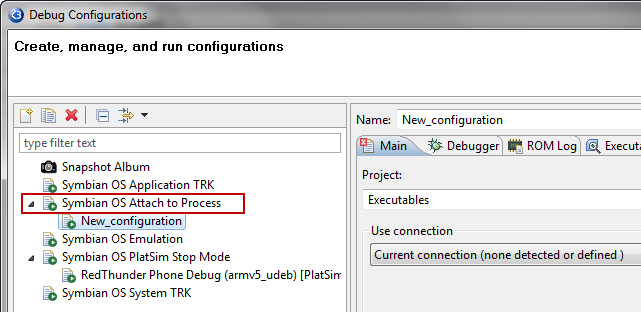
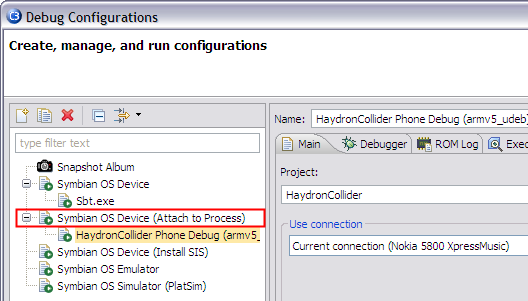
BUG 12110 - more TRK references removed in text and images

diff --git a/core/com.nokia.carbide.cpp.doc.user/html/tasks/debugger/run_mode_debug_07.htm b/core/com.nokia.carbide.cpp.doc.user/html/tasks/debugger/run_mode_debug_07.htm
@@ -18,58 +18,29 @@
   <li><a href="run_mode_debug_04.htm">Setup a virtual drive for Techview and Cust Kits</a></li>
   <li><a href="run_mode_debug_05.htm">Set the default kit in Devices.xml </a></li>
   <li><a href="run_mode_debug_06.htm">Install the SISX file on the target device</a></li>
-  <li><b>Configure TRK connection on the device</b></li>
+  <li><b>Configure CODA connection on the device</b></li>
   <li><a href="run_mode_debug_08.htm">Create a launch configuration</a></li>
 </ol>
 <div class="step">
 <h4><a name="runConfig" id="runConfig"> </a>Configure CODA Connection on the Device</h4>
-<h5>Connecting with Bluetooth</h5>
-  <ol>
-    <li>On the device make sure the Bluetooth port is turned on</li>
-    <li>On the phone launch CODA.</li>
-    <p>The location of CODA (Carbide On-device Debug Agent) will vary based on the phone. On some phones it will be in the Installed folder, on others it may be in the My Own folder.</p>
-    <li>CODA will ask which host you want to pair with. When requested, select your computer from the available Bluetooth devices list.</li>
-    <li>After the host and phone are paired, CODA should be connected. Verify that CODA is running.</li>
-    <li>On the PC:
-      <ol type="a">
-        <li>Right click on the Bluetooth icon in the System tray and select Advanced Configuration</li>
-        <li>Click the Local Services tab</li>
-        <li>Write down the Bluetooth COM Port number from the Local Services tab (Figure 1).</li>
-        <p>The Port number will be used when configuring the CODA launch configuration. The Bluetooth COM Port number in the Local Services tab should match the COM port used in the Connections tab of the CODA launch configuration.</p>
-        <li>Click OK to close the Bluetooth Configuration window</li>
-        <p align="center"><img src="images/Bluetooth_localservices.png" width="460" height="437" /></p>
-        <p class="figure">Figure 1. Bluetooth Configuration windows Local Services panel</p>
-      </ol>
-    </li>
-  </ol>
-<h5>Connecting with PC Suite</h5>
+<h5>Connecting with Nokia Ovi/PC Suite</h5>
 
   <ol>
+    <li>Verify Nokia Ovi/PC Suite are installed on the PC (drivers are required by Carbide)</li>
     <li>Connect the USB cable to the PC and then to the target device</li>
-    <li>On the device select PC suite from the USB mode list</li>
-    <li>Launch the CODA agent</li>
-    <p>The location of the CODA on-device debug agent will vary based on the phone. On some phones it will be in the Installed folder, on others it may be in My Own folder.</p>
-    <li>Halt the Bluetooth device search by pressing Cancel</li>
+    <li>On the device select PC Suite from the USB mode list</li>
+    <li>On the device launch the CODA agent</li>
+    <p>The location of the CODA on-device debug agent will vary based on the phone. On some phones it will be in the <span class="code">Installed</span>, <span class="code">Applications</span>, or <span class="code">My Own</span> folder.</p>
     <li>Click Options &gt; Settings &gt; Connection</li>
-    <li>Change Connection type to USB and set connection options (Figure 2) </li>
+    <li>Change Connection type to USB and set connection options</li>
+       <p align="left"><img src="../trk/images/coda_options.png" alt="CODA options" width="180" height="165"></p>
     <li>Select Back and start the CODA software again and you should be connected</li>
-    <p align="center"><img src="images/TRK_USB_settings.png" width="211" height="250" /></p>
-    <p class="figure">Figure 2. USB Connection Settings</p>
-    <li>On the PC</li>
-        <ol type="a">
-          <li>Open Windows Computer Management by right-clicking My Computer and select Manage from the context menu to open the Computer Management window.</li>
-            <li>Select System Tools &gt; Device Manager &gt; Ports (COM &amp; LPT) to display all active ports</li>
-            <li>Locate the S60 Phone USB (COMxx) item in the list</li>
-
-        <p align="center"><img src="images/comp_manage_ports.png" width="507" height="546" />        </p>
-    <p class="figure">Figure 3. Device Manager - Ports</p>
-
-      <li>Write down the port ID and Communication Port Properties.</li>
-      <p>The COM Port number in the Device Manager window should match the COM port used in the Connections tab of the CODA launch configuration.</p>
-      <li>Close the Device Manager window </li>
+    <li>On the PC verify connection in Remote Connections view<br />
+    	<p><img src="../../reference/images/view_remote_connections.png" alt="Remote Connections view" width="679" height="166"></p>
+    </li>
     </ol>
-  </ol>
-  </div>
+  <p>With the remote device connected you are ready to start debugging.</p>
+</div>
 <div id="footer">Copyright &copy; 2010 Nokia Corporation and/or its subsidiary(-ies). All rights reserved. <br>License: <a href="http://www.eclipse.org/legal/epl-v10.html">http://www.eclipse.org/legal/epl-v10.html</a></div>
 
 </body>

diff --git a/core/com.nokia.carbide.cpp.doc.user/html/tasks/trk/trk_start_sisx.htm b/core/com.nokia.carbide.cpp.doc.user/html/tasks/trk/trk_start_sisx.htm
@@ -4,28 +4,29 @@
 <meta http-equiv="Content-Type" content="text/html; charset=ISO-8859-1" />
 <meta http-equiv="Content-Style-Type" content="text/css" />
 <meta name="LASTUPDATED" content="06/17/05 11:09:43" />
-<title>Starting the On-Device CODA Software</title>
+<title>Starting the CODA Software</title>
 <link rel="StyleSheet" href="../../../book.css" type="text/css"/>
 </head>
 <body >
-<h2>Starting the On-Device CODA Software</h2>
+<h2>Starting the CODA Software</h2>
 <div class="step">
-  <p>The location of the CODA software varies based on the phone. On some phones  it will be the Installed folder, on others it may be in My Own folder. Refer to the documentation that came with the phone to learn where installed programs are stored.</p>
+  <p>The location of the CODA (Carbide On-device Debug Agent) software varies based on the phone. On some phones  it will be the <span class="code">Installed</span>, <span class="code">Applications</span>, or the <span class="code">My Own</span> folder. Refer to the documentation that came with the phone to learn where installed programs are stored.</p>
   <ol>
+    <li>Make sure CODA (Carbide On-device Debug Agent) is present on the device<br />
+        <p>To install CODA see <a href="../../reference/trk/wnd_new_conn_install_tab.htm">Install Remote Agents</a> tab in the <b>New Connections</b> dialog.</p>
+    </li>
     <li>Launch the CODA program on the device</li>
-    <li>When requested, select your computer from the available Bluetooth devices list</li>
-    <p align="center"><img src="images/trk_bt_device_search_dialog.png" width="211" height="250" /></p>
-    <p class="figure">Figure 1. Example device list on a S60 3rd Edition or UIQ device</p>
-    <li>Verify the Bluetooth connection is working
-(Figure 2)
-      <p align="center"><img src="images/trk_bt_connected.png" width="211" height="250" /></p>
-      <p class="figure">Figure 2. COM port verification in TRK on a device</p>
+    <li>Verify the connection is working on the device and within Carbide
+        <p align="center"><img src="images/coda_running.png" alt="CODA status" width="216" height="384">&nbsp;&nbsp;<img src="../../reference/images/view_remote_connections.png" alt="Remote Connections view" width="679" height="166"></p>
+      <p class="figure">Figure 1. Connection verified on device and Carbide</p>
     </li>
     <li>If CODA reports &quot;Not Connected&quot;
         <ol type="a">
         <li>Click Options &gt; Settings soft key </li>
-        <li>If Connection is not set to BlueTooth, choose BlueTooth </li>
-        <li>Click Ok soft key</li>
+        <li>If Connection is not set to USB, choose USB<br />
+        	<p><img src="images/coda_options.png" alt="CODA options" width="180" height="165"></p>
+        </li>
+        <li>Click Back soft key</li>
         <li>Restart CODA  </li>
       </ol>
     </li>
@@ -38,10 +39,6 @@
   <h5>Related references</h5>
   <ul>
     <li><a href="../../projects/launch/page_main.htm">Debug Window (On-device Debugging) Overview</a></li>
-  </ul>
-  <h5>Related tasks</h5>
-  <ul>
-    <li><a href="trk_install_bluetooth.htm">Installing On-device Debug Agents using Bluetooth </a></li>
   </ul>
 <div id="footer">Copyright &copy; 2010 Nokia Corporation and/or its subsidiary(-ies). All rights reserved. <br>License: <a href="http://www.eclipse.org/legal/epl-v10.html">http://www.eclipse.org/legal/epl-v10.html</a></div>
 

diff --git a/core/com.nokia.carbide.cpp.doc.user/html/tasks/trk/trk_preconditions.htm b/core/com.nokia.carbide.cpp.doc.user/html/tasks/trk/trk_preconditions.htm
@@ -9,23 +9,23 @@
 </head>
 <body >
 <h2>Preconditions to On-Device Debugging</h2>
-<p>Before you can use on-device debugging to debug 3rd and 5th edition devices, the following preconditions must be met.</p>
+<p>Before you can use on-device debugging to debug 5th edition devices, the following preconditions must be met.</p>
 <div class="step">
   <h4>Verifying On-device Debugging Preconditions </h4>
   <ol>
     <li>Verify that your system has the following:
       <ul>
         <li>A current Symbian OS SDK is installed</li>
-        <li>Perl installed</li>
+        <li>Perl is installed</li>
         <li>RVCT or GCCE compiler</li>
-        <li>USB or Bluetooth support on your PC </li>
+        <li>USB  support on your PC </li>
         <li>Nokia Ovi/PC Suite (or equivilent software) for connecting and installing applications to the device </li>
       </ul>
     </li>
     <li>Download and install the current CODA SISX file using the <a href="../../reference/trk/wnd_on_device_setup.htm">On-Device Connections</a> dialog</li>
     <p>If CODA is not install, use the <a href="../../projects/launch/wiz_new_launch_config.htm">On-Device Connections &gt; New Connection Wizard &gt; Install remote agents</a> pane.</p>
     <li>Specify the communication method with the on-target device during the debug session</li>
-  <p>Start CODA on the device. During startup of CODA on the device you must specify the communication method the on-device agent uses to debug the device. Currently, those methods include <a href="trk_connection_bluetooth.htm">Bluetooth</a> and <a href="trk_connection_usb.htm">USB</a> or a null serial cable. For Bluetooth, you must pair the device with the PC and a valid serial port assigned. For USB, A USB cable must connect the PC to the device and a valid serial port assigned. Use <a href="../../reference/trk/wnd_on_device_setup.htm">On-Device Connections</a> dialog to make the identification and connection setup quick and easy. </p>
+  <p>Start CODA on the device. During startup of CODA on the device you must specify the communication method the on-device agent uses to debug the device. Currently, those methods include <a href="trk_connection_usb.htm">USB</a> or a null serial cable. For USB, A USB cable must connect the PC to the device and a valid serial port assigned. Use <a href="../../reference/trk/wnd_on_device_setup.htm">On-Device Connections</a> dialog to make the identification and connection setup quick and easy. </p>
   </ol>
 </div>
 <h5>Related concepts</h5>
@@ -36,12 +36,10 @@
 </ul>
 <h5>Related reference</h5>
 <ul>
-  <li><a href="trk_start_sisx.htm">Starting the On-Device TRK Debug Agent</a></li>
+  <li><a href="trk_start_sisx.htm">Starting the On-Device CODA Software</a></li>
 </ul>
 <h5>Related tasks</h5>
-<ul>
-  <li><a href="trk_install_bluetooth.htm">Installing On-device Debug Agents using Bluetooth</a></li>
-  <li><a href="trk_install_usb.htm">Installing On-device Debug Agents using USB </a></li>
+<ul><li><a href="trk_install_usb.htm">Installing On-device Debug Agents using USB </a></li>
 </ul>
 <div id="footer">Copyright &copy; 2010 Nokia Corporation and/or its subsidiary(-ies). All rights reserved. <br>License: <a href="http://www.eclipse.org/legal/epl-v10.html">http://www.eclipse.org/legal/epl-v10.html</a></div>
 

diff --git a/core/com.nokia.carbide.cpp.doc.user/html/tasks/debugger/run_mode_debug_08.htm b/core/com.nokia.carbide.cpp.doc.user/html/tasks/debugger/run_mode_debug_08.htm
@@ -18,7 +18,7 @@
   <li><a href="run_mode_debug_04.htm">Setup a virtual drive for Techview and Cust Kits</a></li>
   <li><a href="run_mode_debug_05.htm">Set the default kit in Devices.xml </a></li>
   <li><a href="run_mode_debug_06.htm">Install the SISX file on the target device</a></li>
-  <li><a href="run_mode_debug_07.htm">Configure TRK connection on the device</a></li>
+  <li><a href="run_mode_debug_07.htm">Configure CODA connection on the device</a></li>
   <li><b>Create a launch configuration</b></li>
 </ol>
 <div class="step">
@@ -30,8 +30,8 @@
     <li>The <a href="../../projects/launch/wiz_new_launch_config.htm">New Launch Configuration Wizard</a>  appears</li>
     <p>To communicate between the Carbide.c++ debugger and the on-device debug agent or protocol interface you must define a debug launch configuration. The Debug window is where you define the type of debug launch configuration to use when debugging programs on the target device (Figure 4).</p>
     <p><img src="images/Debug_Config_main.png" width="986" height="640" /></p>
-    <p class="figure">Figure 4. Debug Window</p>
-    <li>Select either a Symbian OS Device (Install SIS) or Symbian OS Device configuration type for on-device debugging and click New</li>
+    <p class="figure">Figure 4. Debug window</p>
+    <li>Select either a Symbian Device (Install SIS) or Symbian Device configuration type for on-device debugging and click New</li>
     <p>For debug launch configurations using the CODA debug agent, the following pages require review and possible option settings:</p>
     <ul>
       <li><b>Main</b> - defines the project to be launched on the target device</li>

diff --git a/core/com.nokia.carbide.cpp.doc.user/html/tasks/processes/attach_to_process.htm b/core/com.nokia.carbide.cpp.doc.user/html/tasks/processes/attach_to_process.htm
@@ -25,8 +25,8 @@
           <p class="note"><b>NOTE</b> The executable must include symbolics in order for debugging to work.</p>
       </li>
       <li>Click Debug (<img src="../../projects/images/icon_debug.png" alt="Debug icon" width="17" height="17" align="absmiddle">) to launch the <a href="../../projects/launch/wiz_new_launch_config.htm">New Configuration Launch Wizard</a>.</li>
-      <p>Select the Symbian OS Attach to Process launch configuration option and fill in the requested information.</p>
-      <p align="center"><img src="../projects/images/attach_to_process_launch_config.png" alt="Attach to Process launch config" width="641" height="312"></p>
+      <p>Select the Symbian Device (Attach to Process) launch configuration option and fill in the requested information.</p>
+      <p align="center"><img src="../projects/images/attach_to_process_launch_config.png" alt="Attach to Process launch config" width="528" height="301"></p>
       <p class="figure">Figure 2 -<b> Attach to Process</b> launch configuration</p>
       <li>Click Debug.</li>
       <p>The <b>Attach to Process </b>dialog appears. Click a column title to sort the processes in ascending or descending order to help you locate a specific process or use the filter text box to show specific processes. </p>

diff --git a/core/com.nokia.carbide.cpp.doc.user/html/tasks/trk/trk_troubleshooting.htm b/core/com.nokia.carbide.cpp.doc.user/html/tasks/trk/trk_troubleshooting.htm
@@ -89,8 +89,8 @@
 <blockquote>
   <p>Normally, you can determine the COM port ID using the Device Manager if TRK is already connected via USB.
   </p>
-  <p>To check, choose Start &gt; Settings &gt; Control panel &gt; System &gt; Hardware &gt; Device Manager. In the Device Manager, choose &quot;Ports&quot; to view the active ports (Figure 1).</p>
-  <p align="center"><img src="images/trk_device_manager.gif" width="323" height="210" /></p>
+  <p>To check, choose <b>Start &gt; Settings &gt; Control panel &gt; System &gt; Hardware &gt; Device Manager</b>. In the Device Manager, choose &quot;Ports&quot; to view the active ports (Figure 1).</p>
+  <p align="center"><img src="images/trk_device_manager.gif" width="387" height="258" /></p>
   <p class="figure">Figure 1. Ports displayed in Ports section of Device Manager.</p>
   <p>In some situations all USB virtual COM ports are installed under &quot;Modems&quot; in the Device Manager. In the Device Manager dialog, choose &quot;Modems&quot; and see if there are two COM ports listed. One of them will work for debugging. Most of the time, the higher port number works for debugging with TRK.</p>
 </blockquote>

diff --git a/core/com.nokia.carbide.cpp.doc.user/html/reference/trk/view_remote_connection.htm b/core/com.nokia.carbide.cpp.doc.user/html/reference/trk/view_remote_connection.htm
@@ -32,7 +32,7 @@
   <li>Status - current connection status, i.e. Available, Not Accessible, Ready, etc.</li>
   <li>Description - provides information on the current connection test status.</li>
 </ul>
-<p align="center"><img src="../images/view_remote_connections.png" width="588" height="177"></p>
+<p align="center"><img src="../images/view_remote_connections.png" width="679" height="166"></p>
 <p class="figure">Figure 1 - Remote Connections view</p>
 <p>When the view is closed or another perspective opened, a small display  appears in the trim area in the lower-right corner of the workspace showing the current active remote connection. Click the connection name to  open the drop-down menu where you can open the Remote Connections view or switch between  connections.</p>
 <p align="center"><img src="../images/trim_remote_conns.png" width="212" height="44"></p>

diff --git a/core/com.nokia.carbide.cpp.doc.user/html/reference/trk/wnd_new_conn_install_tab.htm b/core/com.nokia.carbide.cpp.doc.user/html/reference/trk/wnd_new_conn_install_tab.htm
@@ -11,7 +11,7 @@
 </head>
 <body >
 <h2>Install Remote Agents</h2>
-<p>Use  the <strong>Install remote agents</strong> pane to select the latest remote agent version  to download and install to the device. </p>
+<p>Use  the <strong>Install Remote Agents</strong> pane to select the latest remote agent version  to download and install to the device. </p>
 <p align="center"><img src="../images/tab_new_conn_install_agent.png" width="525" height="576"></p>
 <p class="figure">Figure 2 - New Connection wizard Install remote agents page</p>
 <p>Table 1. Install Remote Agents pane</p>

diff --git a/core/com.nokia.carbide.cpp.doc.user/html/reference/trk/exporting_remote_conns.htm b/core/com.nokia.carbide.cpp.doc.user/html/reference/trk/exporting_remote_conns.htm
@@ -30,7 +30,7 @@
 <h5>Related references</h5>
 <ul>
   <li><a href="wnd_on_device_setup.htm">On-Device Connections</a></li>
-  <li><a href="wnd_new_conn_install_tab.htm">Install latest TRK</a> </li>
+  <li><a href="wnd_new_conn_install_tab.htm">Install latest CODA</a> </li>
 </ul>
 <div id="footer">Copyright &copy; 2010 Nokia Corporation and/or its subsidiary(-ies). All rights reserved. <br>License: <a href="http://www.eclipse.org/legal/epl-v10.html">http://www.eclipse.org/legal/epl-v10.html</a></div>
 </body>

diff --git a/core/com.nokia.carbide.cpp.doc.user/html/tasks/trk/trk_install_usb.htm b/core/com.nokia.carbide.cpp.doc.user/html/tasks/trk/trk_install_usb.htm
@@ -30,7 +30,7 @@
 	<p>The final step is to install the SISX program on the target device. </p>
       <ol type="a">
         <li>Locate and launch the SISX file to install </li>
-          <li>Follow the instructions on the screen to finish installing the TRK debug agent</li>
+          <li>Follow the instructions on the screen to finish installing the CODA debug agent</li>
       </ol>
   </ol>
 </div>
